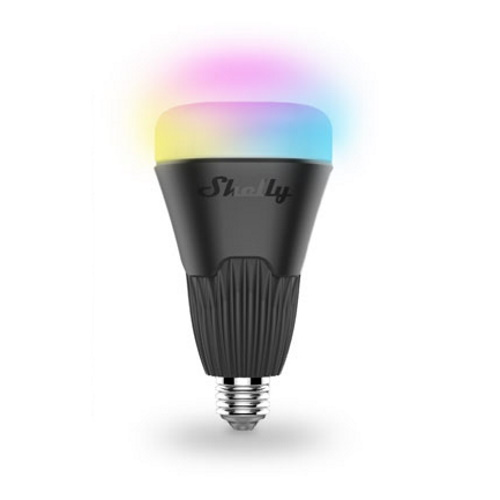
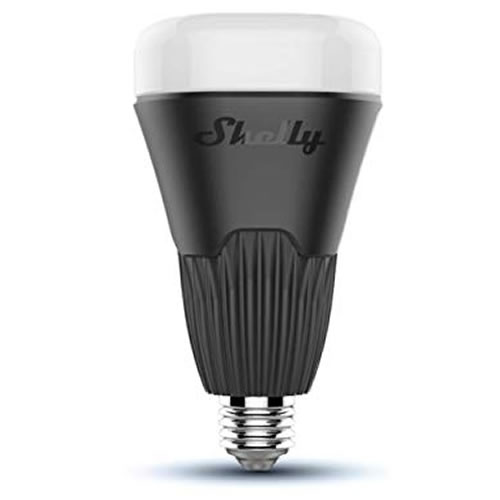
Release 1.12.0

Changed region(s): [[0.27, 0.0, 0.78, 0.99], [0.45, 0.36, 0.48, 0.39]]

diff --git a/APPSTORE.md b/APPSTORE.md
@@ -19,7 +19,5 @@ Add your Shelly device in Homey just like you would add any other device. Enter 
 For support please use the official support topic on the forum [here](https://community.athom.com/t/765).
 
 ## Changelog
-### v1.11.0- 2019-09-02
-* NEW: added support for Shelly EM
-* IMPROVEMENT: added total consumption for Shelly 1 PM, Shelly2.5, Shelly Plug and Shelly Plug S (this requires the re-pairing of the device)
-* IMPROVEMENT: added internal temperature for Shelly 1 PM, Shelly2.5 and Shelly Plug S  (this requires the re-pairing of the device)
+### v1.12.0- 2019-09-19
+* NEW: added support for Shelly Bulb (thanx to Stefan Stanisic for PR)
